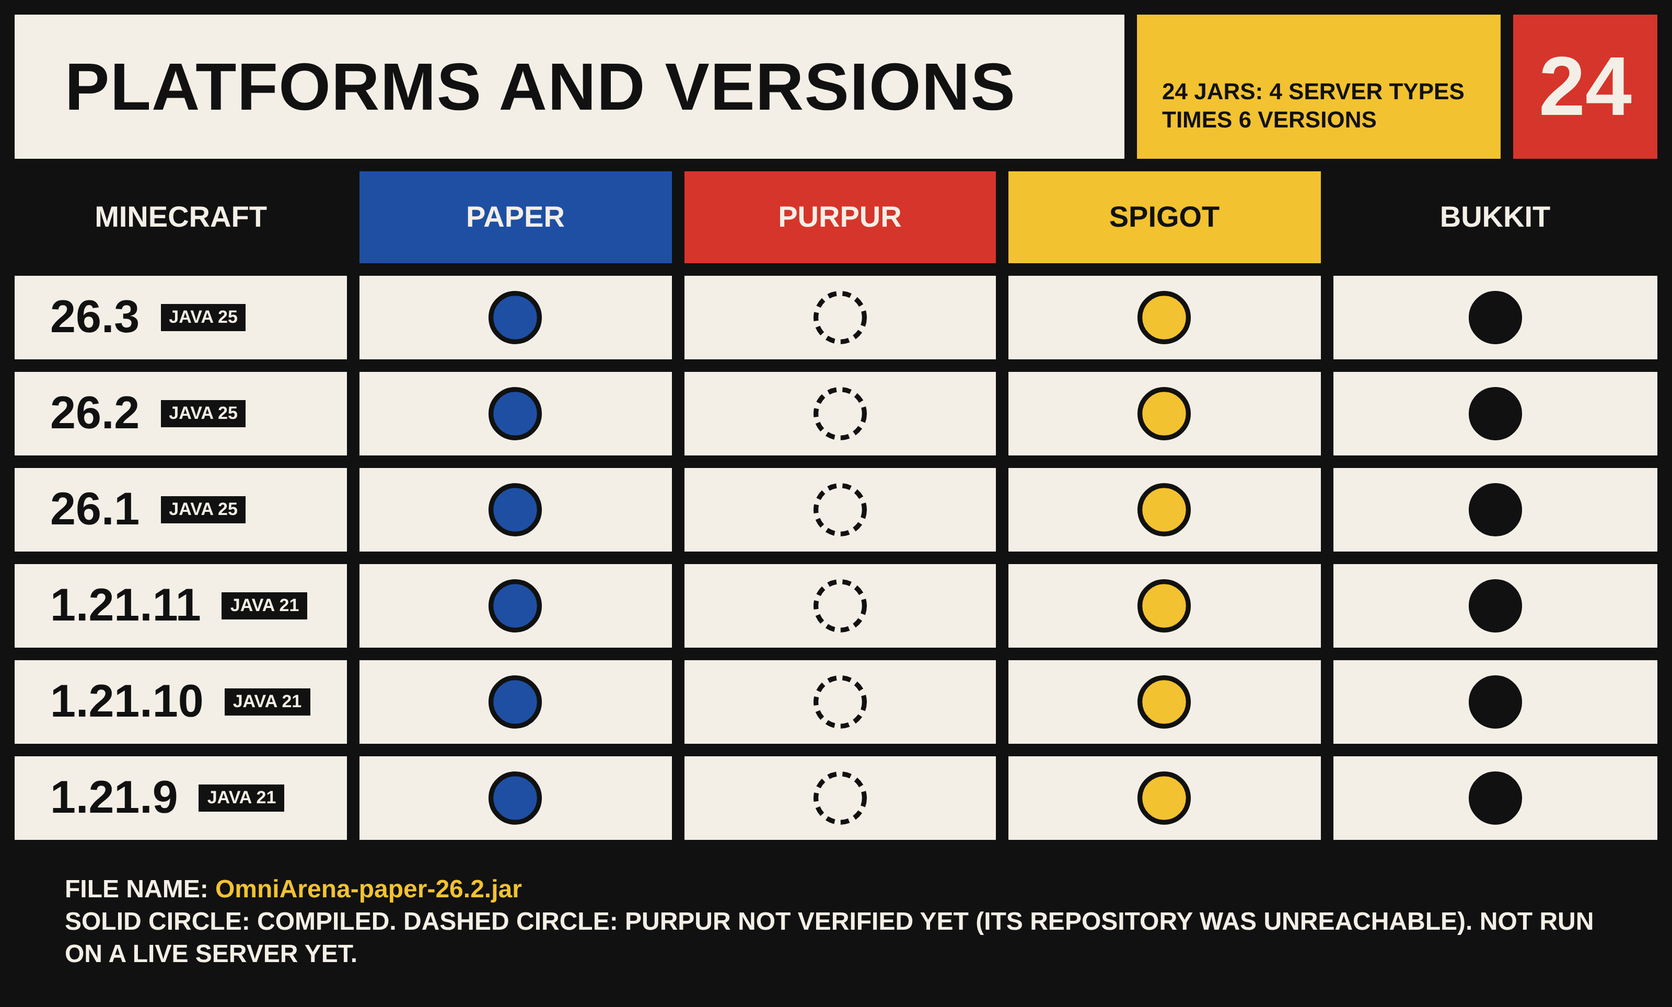
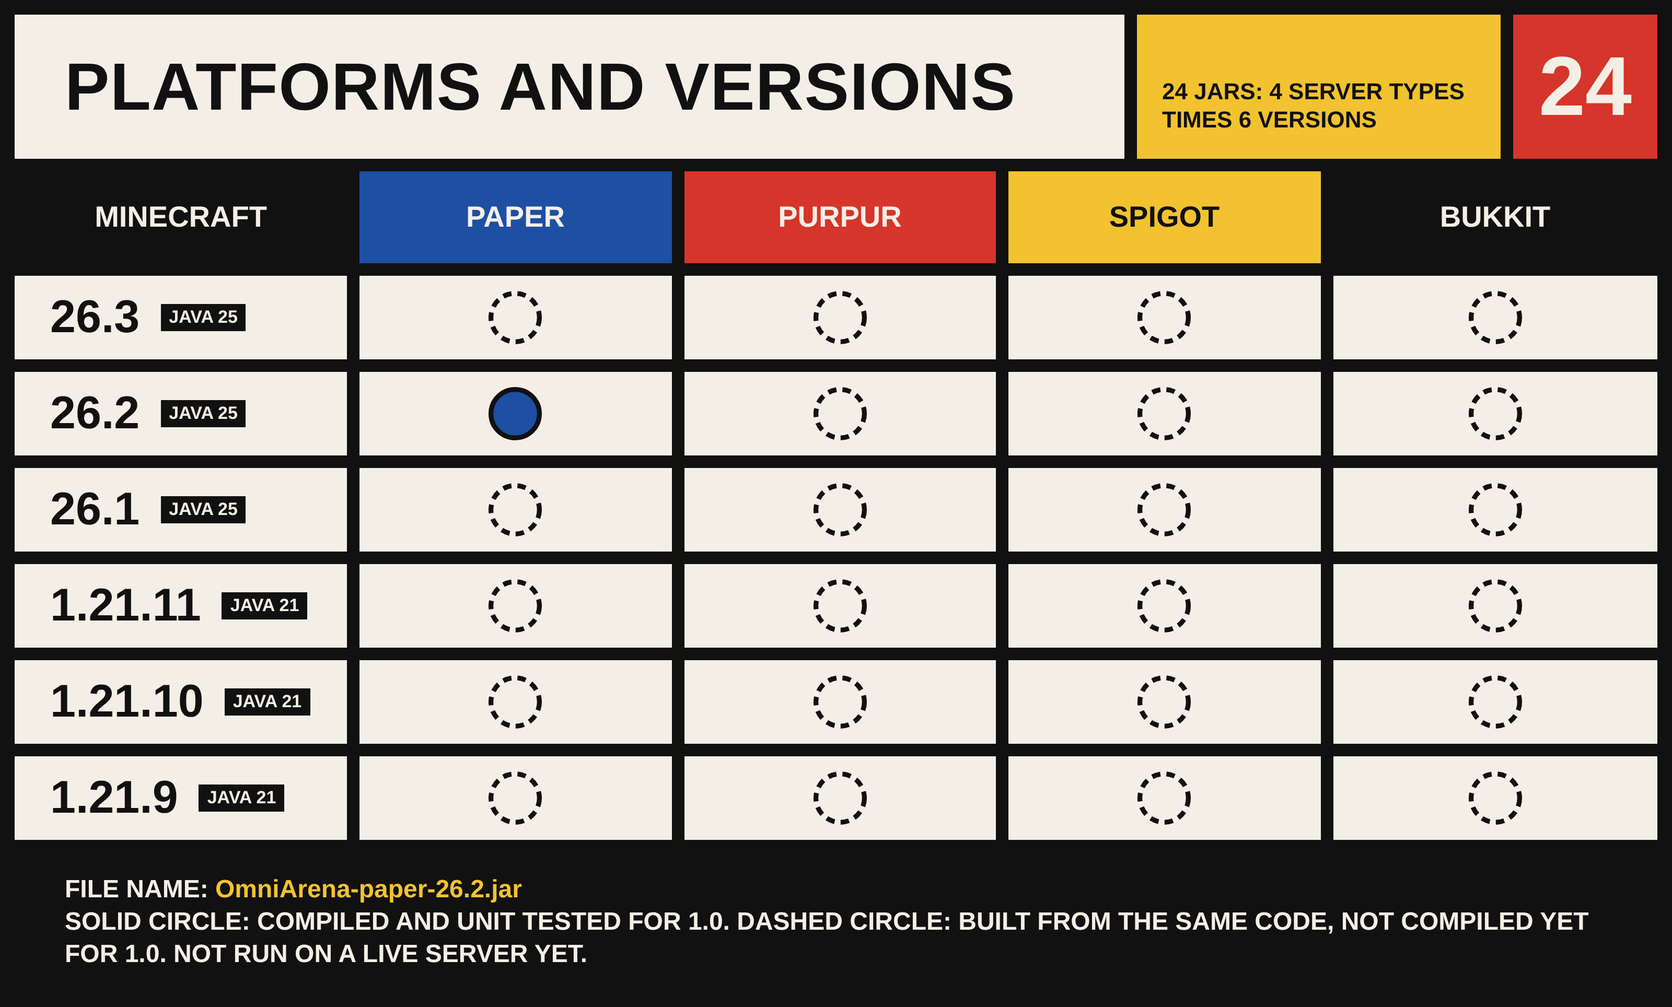
Docs: correct build status (only paper/26.2 compiled for 1.0)
Claude-Session: https://claude.ai/code/session_01HHny4fxykC5DGDai4dCPB2

diff --git a/docs/modrinth/graphics-src/09-matrix.html b/docs/modrinth/graphics-src/09-matrix.html
@@ -3,4 +3,4 @@
 .c{height:92px;border-right:12px solid #111;border-bottom:12px solid #111;display:flex;align-items:center;justify-content:center;font-size:28px;text-transform:uppercase;text-align:center;line-height:1.1}
 .c:nth-child(5n){border-right:0}.c.h{height:100px}
 .c.v{justify-content:flex-start;gap:20px;font-size:44px;padding-left:34px}.c.v small{white-space:nowrap;font-size:17px;background:#111;color:#F4EFE6;padding:4px 8px}
-</style></head><body><div class="frame"><div class="head"><div class="t">Platforms and versions</div><div class="s">24 jars: 4 server types times 6 versions</div><div class="n" style="background:#D6352B">24</div></div><div class="m"><div class="c h" style="background:#111;color:#F4EFE6">Minecraft</div><div class="c h" style="background:#1E4FA3;color:#F4EFE6">Paper</div><div class="c h" style="background:#D6352B;color:#F4EFE6">Purpur</div><div class="c h" style="background:#F2C230;color:#111111">Spigot</div><div class="c h" style="background:#111111;color:#F4EFE6">Bukkit</div><div class="c v"><span>26.3</span><small>Java 25</small></div><div class="c"><svg viewBox="0 0 100 100" width="58" height="58"><circle cx="50" cy="50" r="40" fill="#1E4FA3" stroke="#111111" stroke-width="8" /></svg></div><div class="c"><svg viewBox="0 0 100 100" width="58" height="58"><circle cx="50" cy="50" r="40" fill="none" stroke="#111111" stroke-width="8" stroke-dasharray="14 10"/></svg></div><div class="c"><svg viewBox="0 0 100 100" width="58" height="58"><circle cx="50" cy="50" r="40" fill="#F2C230" stroke="#111111" stroke-width="8" /></svg></div><div class="c"><svg viewBox="0 0 100 100" width="58" height="58"><circle cx="50" cy="50" r="40" fill="#111111" stroke="#111111" stroke-width="8" /></svg></div><div class="c v"><span>26.2</span><small>Java 25</small></div><div class="c"><svg viewBox="0 0 100 100" width="58" height="58"><circle cx="50" cy="50" r="40" fill="#1E4FA3" stroke="#111111" stroke-width="8" /></svg></div><div class="c"><svg viewBox="0 0 100 100" width="58" height="58"><circle cx="50" cy="50" r="40" fill="none" stroke="#111111" stroke-width="8" stroke-dasharray="14 10"/></svg></div><div class="c"><svg viewBox="0 0 100 100" width="58" height="58"><circle cx="50" cy="50" r="40" fill="#F2C230" stroke="#111111" stroke-width="8" /></svg></div><div class="c"><svg viewBox="0 0 100 100" width="58" height="58"><circle cx="50" cy="50" r="40" fill="#111111" stroke="#111111" stroke-width="8" /></svg></div><div class="c v"><span>26.1</span><small>Java 25</small></div><div class="c"><svg viewBox="0 0 100 100" width="58" height="58"><circle cx="50" cy="50" r="40" fill="#1E4FA3" stroke="#111111" stroke-width="8" /></svg></div><div class="c"><svg viewBox="0 0 100 100" width="58" height="58"><circle cx="50" cy="50" r="40" fill="none" stroke="#111111" stroke-width="8" stroke-dasharray="14 10"/></svg></div><div class="c"><svg viewBox="0 0 100 100" width="58" height="58"><circle cx="50" cy="50" r="40" fill="#F2C230" stroke="#111111" stroke-width="8" /></svg></div><div class="c"><svg viewBox="0 0 100 100" width="58" height="58"><circle cx="50" cy="50" r="40" fill="#111111" stroke="#111111" stroke-width="8" /></svg></div><div class="c v"><span>1.21.11</span><small>Java 21</small></div><div class="c"><svg viewBox="0 0 100 100" width="58" height="58"><circle cx="50" cy="50" r="40" fill="#1E4FA3" stroke="#111111" stroke-width="8" /></svg></div><div class="c"><svg viewBox="0 0 100 100" width="58" height="58"><circle cx="50" cy="50" r="40" fill="none" stroke="#111111" stroke-width="8" stroke-dasharray="14 10"/></svg></div><div class="c"><svg viewBox="0 0 100 100" width="58" height="58"><circle cx="50" cy="50" r="40" fill="#F2C230" stroke="#111111" stroke-width="8" /></svg></div><div class="c"><svg viewBox="0 0 100 100" width="58" height="58"><circle cx="50" cy="50" r="40" fill="#111111" stroke="#111111" stroke-width="8" /></svg></div><div class="c v"><span>1.21.10</span><small>Java 21</small></div><div class="c"><svg viewBox="0 0 100 100" width="58" height="58"><circle cx="50" cy="50" r="40" fill="#1E4FA3" stroke="#111111" stroke-width="8" /></svg></div><div class="c"><svg viewBox="0 0 100 100" width="58" height="58"><circle cx="50" cy="50" r="40" fill="none" stroke="#111111" stroke-width="8" stroke-dasharray="14 10"/></svg></div><div class="c"><svg viewBox="0 0 100 100" width="58" height="58"><circle cx="50" cy="50" r="40" fill="#F2C230" stroke="#111111" stroke-width="8" /></svg></div><div class="c"><svg viewBox="0 0 100 100" width="58" height="58"><circle cx="50" cy="50" r="40" fill="#111111" stroke="#111111" stroke-width="8" /></svg></div><div class="c v"><span>1.21.9</span><small>Java 21</small></div><div class="c"><svg viewBox="0 0 100 100" width="58" height="58"><circle cx="50" cy="50" r="40" fill="#1E4FA3" stroke="#111111" stroke-width="8" /></svg></div><div class="c"><svg viewBox="0 0 100 100" width="58" height="58"><circle cx="50" cy="50" r="40" fill="none" stroke="#111111" stroke-width="8" stroke-dasharray="14 10"/></svg></div><div class="c"><svg viewBox="0 0 100 100" width="58" height="58"><circle cx="50" cy="50" r="40" fill="#F2C230" stroke="#111111" stroke-width="8" /></svg></div><div class="c"><svg viewBox="0 0 100 100" width="58" height="58"><circle cx="50" cy="50" r="40" fill="#111111" stroke="#111111" stroke-width="8" /></svg></div></div><div class="note" style="border-top:0">File name: <span style="color:#F2C230;text-transform:none">OmniArena-paper-26.2.jar</span><br>Solid circle: compiled. Dashed circle: Purpur not verified yet (its repository was unreachable). Not run on a live server yet.</div></div></body></html>
+</style></head><body><div class="frame"><div class="head"><div class="t">Platforms and versions</div><div class="s">24 jars: 4 server types times 6 versions</div><div class="n" style="background:#D6352B">24</div></div><div class="m"><div class="c h" style="background:#111;color:#F4EFE6">Minecraft</div><div class="c h" style="background:#1E4FA3;color:#F4EFE6">Paper</div><div class="c h" style="background:#D6352B;color:#F4EFE6">Purpur</div><div class="c h" style="background:#F2C230;color:#111111">Spigot</div><div class="c h" style="background:#111111;color:#F4EFE6">Bukkit</div><div class="c v"><span>26.3</span><small>Java 25</small></div><div class="c"><svg viewBox="0 0 100 100" width="58" height="58"><circle cx="50" cy="50" r="40" fill="none" stroke="#111111" stroke-width="8" stroke-dasharray="14 10"/></svg></div><div class="c"><svg viewBox="0 0 100 100" width="58" height="58"><circle cx="50" cy="50" r="40" fill="none" stroke="#111111" stroke-width="8" stroke-dasharray="14 10"/></svg></div><div class="c"><svg viewBox="0 0 100 100" width="58" height="58"><circle cx="50" cy="50" r="40" fill="none" stroke="#111111" stroke-width="8" stroke-dasharray="14 10"/></svg></div><div class="c"><svg viewBox="0 0 100 100" width="58" height="58"><circle cx="50" cy="50" r="40" fill="none" stroke="#111111" stroke-width="8" stroke-dasharray="14 10"/></svg></div><div class="c v"><span>26.2</span><small>Java 25</small></div><div class="c"><svg viewBox="0 0 100 100" width="58" height="58"><circle cx="50" cy="50" r="40" fill="#1E4FA3" stroke="#111111" stroke-width="8" /></svg></div><div class="c"><svg viewBox="0 0 100 100" width="58" height="58"><circle cx="50" cy="50" r="40" fill="none" stroke="#111111" stroke-width="8" stroke-dasharray="14 10"/></svg></div><div class="c"><svg viewBox="0 0 100 100" width="58" height="58"><circle cx="50" cy="50" r="40" fill="none" stroke="#111111" stroke-width="8" stroke-dasharray="14 10"/></svg></div><div class="c"><svg viewBox="0 0 100 100" width="58" height="58"><circle cx="50" cy="50" r="40" fill="none" stroke="#111111" stroke-width="8" stroke-dasharray="14 10"/></svg></div><div class="c v"><span>26.1</span><small>Java 25</small></div><div class="c"><svg viewBox="0 0 100 100" width="58" height="58"><circle cx="50" cy="50" r="40" fill="none" stroke="#111111" stroke-width="8" stroke-dasharray="14 10"/></svg></div><div class="c"><svg viewBox="0 0 100 100" width="58" height="58"><circle cx="50" cy="50" r="40" fill="none" stroke="#111111" stroke-width="8" stroke-dasharray="14 10"/></svg></div><div class="c"><svg viewBox="0 0 100 100" width="58" height="58"><circle cx="50" cy="50" r="40" fill="none" stroke="#111111" stroke-width="8" stroke-dasharray="14 10"/></svg></div><div class="c"><svg viewBox="0 0 100 100" width="58" height="58"><circle cx="50" cy="50" r="40" fill="none" stroke="#111111" stroke-width="8" stroke-dasharray="14 10"/></svg></div><div class="c v"><span>1.21.11</span><small>Java 21</small></div><div class="c"><svg viewBox="0 0 100 100" width="58" height="58"><circle cx="50" cy="50" r="40" fill="none" stroke="#111111" stroke-width="8" stroke-dasharray="14 10"/></svg></div><div class="c"><svg viewBox="0 0 100 100" width="58" height="58"><circle cx="50" cy="50" r="40" fill="none" stroke="#111111" stroke-width="8" stroke-dasharray="14 10"/></svg></div><div class="c"><svg viewBox="0 0 100 100" width="58" height="58"><circle cx="50" cy="50" r="40" fill="none" stroke="#111111" stroke-width="8" stroke-dasharray="14 10"/></svg></div><div class="c"><svg viewBox="0 0 100 100" width="58" height="58"><circle cx="50" cy="50" r="40" fill="none" stroke="#111111" stroke-width="8" stroke-dasharray="14 10"/></svg></div><div class="c v"><span>1.21.10</span><small>Java 21</small></div><div class="c"><svg viewBox="0 0 100 100" width="58" height="58"><circle cx="50" cy="50" r="40" fill="none" stroke="#111111" stroke-width="8" stroke-dasharray="14 10"/></svg></div><div class="c"><svg viewBox="0 0 100 100" width="58" height="58"><circle cx="50" cy="50" r="40" fill="none" stroke="#111111" stroke-width="8" stroke-dasharray="14 10"/></svg></div><div class="c"><svg viewBox="0 0 100 100" width="58" height="58"><circle cx="50" cy="50" r="40" fill="none" stroke="#111111" stroke-width="8" stroke-dasharray="14 10"/></svg></div><div class="c"><svg viewBox="0 0 100 100" width="58" height="58"><circle cx="50" cy="50" r="40" fill="none" stroke="#111111" stroke-width="8" stroke-dasharray="14 10"/></svg></div><div class="c v"><span>1.21.9</span><small>Java 21</small></div><div class="c"><svg viewBox="0 0 100 100" width="58" height="58"><circle cx="50" cy="50" r="40" fill="none" stroke="#111111" stroke-width="8" stroke-dasharray="14 10"/></svg></div><div class="c"><svg viewBox="0 0 100 100" width="58" height="58"><circle cx="50" cy="50" r="40" fill="none" stroke="#111111" stroke-width="8" stroke-dasharray="14 10"/></svg></div><div class="c"><svg viewBox="0 0 100 100" width="58" height="58"><circle cx="50" cy="50" r="40" fill="none" stroke="#111111" stroke-width="8" stroke-dasharray="14 10"/></svg></div><div class="c"><svg viewBox="0 0 100 100" width="58" height="58"><circle cx="50" cy="50" r="40" fill="none" stroke="#111111" stroke-width="8" stroke-dasharray="14 10"/></svg></div></div><div class="note" style="border-top:0">File name: <span style="color:#F2C230;text-transform:none">OmniArena-paper-26.2.jar</span><br>Solid circle: compiled and unit tested for 1.0. Dashed circle: built from the same code, not compiled yet for 1.0. Not run on a live server yet.</div></div></body></html>

diff --git a/docs/modrinth/DESCRIPTION-preview.html b/docs/modrinth/DESCRIPTION-preview.html
@@ -9,7 +9,7 @@ blockquote{border-left:6px solid #D6352B;margin:12px 0;padding:2px 14px;backgrou
 a{color:#7fb0ff}</style></head><body><div class="page"><p><img alt="OmniArena: PvP arenas, zero hassle. Ranked, tournaments, 4 server types." src="images/01-hero.png" /></p>
 <p><strong>OmniArena is a PvP arena plugin that sets up in five minutes and looks after itself.</strong> Players join from a menu, a command or a sign and fight in 16 game types. Admins build an arena with a short wizard, and the plugin rebuilds it after every match.</p>
 <blockquote>
-<p><strong>Please read the honest status first.</strong> Version 1.0.0 has passing unit tests (they cover pure logic only), and the Paper, Spigot and Bukkit jars compile for all six Minecraft versions. The six Purpur jars could not be verified, because the Purpur repository was unreachable when they were built. <strong>Nobody has run OmniArena on a live server yet.</strong> The links to DecentHolograms, FancyHolograms, Citizens and Multiverse use reflection and are untested against the real plugins. Please try it on a copy of your server first. Details: <a href="#honest-status">Honest status</a>.</p>
+<p><strong>Please read the honest status first.</strong> Version 1.0.0 has passing unit tests (they cover pure logic only), but only the <strong>Paper 26.2</strong> jar has been compiled for 1.0; the other 23 jars (Purpur, Spigot, Bukkit and the other Minecraft versions) use the same code but have not been compiled yet. <strong>Nobody has run OmniArena on a live server yet.</strong> The links to DecentHolograms, FancyHolograms, Citizens and Multiverse use reflection and are untested against the real plugins. Please try it on a copy of your server first. Details: <a href="#honest-status">Honest status</a>.</p>
 </blockquote>
 <p><img alt="" src="images/10-divider.png" /></p>
 <h1 id="summary">Summary</h1>
@@ -383,7 +383,7 @@ a{color:#7fb0ff}</style></head><body><div class="page"><p><img alt="OmniArena: P
 <h2 id="honest-status">Honest status</h2>
 <ul>
 <li><strong>Unit tests pass.</strong> They test pure logic only (brackets, config migration, menus layout, guide pages and more).</li>
-<li><strong>Compiled:</strong> the Paper, Spigot and Bukkit jars for all six versions.</li>
+<li><strong>Compiled:</strong> only the Paper 26.2 jar so far. The other 23 jars are not compiled yet for 1.0.</li>
 <li><strong>Not verified:</strong> the six Purpur jars (repository unreachable at the time).</li>
 <li><strong>Never run on a live server.</strong> There are no automated tests against a real server.</li>
 <li><strong>Untested hooks:</strong> DecentHolograms, FancyHolograms, Citizens and Multiverse (reflection only).</li>

diff --git a/docs/modrinth/graphics-src/gen.py b/docs/modrinth/graphics-src/gen.py
@@ -211,14 +211,14 @@ cir = lambda ok, col: (f'<svg viewBox="0 0 100 100" width="58" height="58"><circ
 mh = '<div class="c h" style="background:#111;color:#F4EFE6">Minecraft</div>' + "".join(f'<div class="c h" style="background:{b};color:{f}">{n}</div>' for n, b, f, _ in plats)
 mr = ""
 for v, j in vers:
-    mr += f'<div class="c v"><span>{v}</span><small>Java {j}</small></div>' + "".join(f'<div class="c">{cir(ok, b if b != K else K)}</div>' for n, b, f, ok in plats)
+    mr += f'<div class="c v"><span>{v}</span><small>Java {j}</small></div>' + "".join(f'<div class="c">{cir(n == "Paper" and v == "26.2", b)}</div>' for n, b, f, ok in plats)
 page("09-matrix.html", """
 .m{display:grid;grid-template-columns:330px repeat(4,1fr)}
 .c{height:92px;border-right:12px solid #111;border-bottom:12px solid #111;display:flex;align-items:center;justify-content:center;font-size:28px;text-transform:uppercase;text-align:center;line-height:1.1}
 .c:nth-child(5n){border-right:0}.c.h{height:100px}
 .c.v{justify-content:flex-start;gap:20px;font-size:44px;padding-left:34px}.c.v small{white-space:nowrap;font-size:17px;background:#111;color:#F4EFE6;padding:4px 8px}
 """, head("Platforms and versions", "24 jars: 4 server types times 6 versions", "24", R) + f'<div class="m">{mh}{mr}</div>'
- + f'<div class="note" style="border-top:0">File name: <span style="color:#F2C230;text-transform:none">OmniArena-paper-26.2.jar</span><br>Solid circle: compiled. Dashed circle: Purpur not verified yet (its repository was unreachable). Not run on a live server yet.</div>')
+ + f'<div class="note" style="border-top:0">File name: <span style="color:#F2C230;text-transform:none">OmniArena-paper-26.2.jar</span><br>Solid circle: compiled and unit tested for 1.0. Dashed circle: built from the same code, not compiled yet for 1.0. Not run on a live server yet.</div>')
 
 # ---------- 10 divider ----------
 page("10-divider.html", """

diff --git a/docs/modrinth/DESCRIPTION.md b/docs/modrinth/DESCRIPTION.md
@@ -2,7 +2,7 @@
 
 **OmniArena is a PvP arena plugin that sets up in five minutes and looks after itself.** Players join from a menu, a command or a sign and fight in 16 game types. Admins build an arena with a short wizard, and the plugin rebuilds it after every match.
 
-> **Please read the honest status first.** Version 1.0.0 has passing unit tests (they cover pure logic only), and the Paper, Spigot and Bukkit jars compile for all six Minecraft versions. The six Purpur jars could not be verified, because the Purpur repository was unreachable when they were built. **Nobody has run OmniArena on a live server yet.** The links to DecentHolograms, FancyHolograms, Citizens and Multiverse use reflection and are untested against the real plugins. Please try it on a copy of your server first. Details: [Honest status](#honest-status).
+> **Please read the honest status first.** Version 1.0.0 has passing unit tests (they cover pure logic only), but only the **Paper 26.2** jar has been compiled for 1.0; the other 23 jars (Purpur, Spigot, Bukkit and the other Minecraft versions) use the same code but have not been compiled yet. **Nobody has run OmniArena on a live server yet.** The links to DecentHolograms, FancyHolograms, Citizens and Multiverse use reflection and are untested against the real plugins. Please try it on a copy of your server first. Details: [Honest status](#honest-status).
 
 ![](https://raw.githubusercontent.com/JasonPieterK/OmniArena/main/docs/modrinth/images/10-divider.png)
 
@@ -230,7 +230,7 @@ Versions: **26.3, 26.2, 26.1** (Java 25) and **1.21.11, 1.21.10, 1.21.9** (Java 
 ## Honest status
 
 - **Unit tests pass.** They test pure logic only (brackets, config migration, menus layout, guide pages and more).
-- **Compiled:** the Paper, Spigot and Bukkit jars for all six versions.
+- **Compiled:** only the Paper 26.2 jar so far. The other 23 jars are not compiled yet for 1.0.
 - **Not verified:** the six Purpur jars (repository unreachable at the time).
 - **Never run on a live server.** There are no automated tests against a real server.
 - **Untested hooks:** DecentHolograms, FancyHolograms, Citizens and Multiverse (reflection only).

diff --git a/README.md b/README.md
@@ -9,7 +9,7 @@
 Players join arenas from a menu, a command or a sign and fight in *16 game types*. Admins build an arena with a short
 wizard; the plugin rebuilds it after every match and repairs itself when something goes wrong.
 
-> **Honest status.** Version 1.0.0. The unit tests pass (pure logic only) and the Paper, Spigot and Bukkit jars compile.
+> **Honest status.** Version 1.0.0. The unit tests pass (pure logic only); only the Paper 26.2 jar has been compiled for 1.0, the other 23 are not compiled yet.
 > The six Purpur jars could not be verified (their repository was unreachable). ***It has never been run on a live
 > server.*** The DecentHolograms, FancyHolograms, Citizens and Multiverse hooks are reflection-only and untested.
 > Try it on a copy of your server first. Details: [Status](#status).
@@ -135,8 +135,8 @@ JAVA25_HOME=/path/to/jdk25 JAVA21_HOME=/path/to/jdk21 scripts/build-all.sh   # a
 ```
 
 Profiles: `paper`, `purpur`, `spigot`, `bukkit` x `mc-26.3`, `mc-26.2`, `mc-26.1`, `mc-1.21.11`, `mc-1.21.10`, `mc-1.21.9`.
-Compilation is verified for the paper, spigot and bukkit jars; the six Purpur jars could not be verified (their repository was
-unreachable), and there are no automated tests against a live server. Details: [DOCS.md](DOCS.md#12-building).
+Only the paper/26.2 jar has been compiled for 1.0; the other 23 use the same code but are not compiled yet,
+and there are no automated tests against a live server. Details: [DOCS.md](DOCS.md#12-building).
 
 ## Troubleshooting
 

diff --git a/AGENTS.md b/AGENTS.md
@@ -24,8 +24,8 @@ scripts/build-all.sh                    # all 24 jars into dist/ (JAVA25_HOME, J
   `PlatformImpl` per jar is in `src/paper/java` (paper, purpur) or `src/spigot/java` (spigot, bukkit,
   with shaded + relocated Adventure and `adventure-platform-bukkit`). Never call Paper-only API from
   common code: add a method to `PlatformAdapter` and implement it in both `PlatformImpl` classes
-  (e.g. `openBook` for the guide books). Code stays at Java 21 level. Compilation is verified for all 18
-  paper/spigot/bukkit combinations; Purpur (`purpur-api`) could not be verified because repo.purpurmc.org was unreachable.
+  (e.g. `openBook` for the guide books). Code stays at Java 21 level. Only the paper/mc-26.2 jar was compiled (and unit tested) after the 1.0 QoL rework; the other 23 profiles
+  (spigot/bukkit/purpur and the other versions) were not compiled since; Purpur's repo was also unreachable earlier.
 - `target/` and `dist/` are git-ignored.
 - Tests: 79 `@Test` methods (`grep -r "@Test" src/test | wc -l`): regen enum, bracket logic, config schema and
   migration, YAML repair and backups, error tracking, integration helpers, menu layout, did-you-mean, guide paginator and

diff --git a/CLAUDE.md b/CLAUDE.md
@@ -30,9 +30,8 @@ scripts/build-all.sh                 # whole 24-jar matrix into dist/ (JAVA25_HO
 - `target/` and `dist/` are git-ignored build output; never edit them.
 - Repositories needed: PaperMC, Spigot snapshots, PurpurMC, EssentialsX, PlaceholderAPI, EngineHub,
   Sonatype, JitPack, Vault. Outbound network may be restricted in sandboxes; builds may need a
-  pre-populated `~/.m2` (`mvn -o`). Verification status: compilation was verified for all 18 paper, spigot and
-  bukkit combinations (and the unit tests on paper/mc-26.2); the 6 purpur jars could not be
-  verified because repo.purpurmc.org was unreachable. No live-server runtime tests exist.
+  pre-populated `~/.m2` (`mvn -o`). Verification status: Only the paper/mc-26.2 jar was compiled (and unit tested) after the 1.0 QoL rework; the other 23 profiles were not compiled since
+  (spigot-api is not in the offline `~/.m2`; Purpur's repo was unreachable earlier). No live-server runtime tests exist.
 
 ### The 24-jar matrix
 

diff --git a/DOCS.md b/DOCS.md
@@ -1036,6 +1036,6 @@ the spigot or bukkit jar there. Unit tests (`mvn -q -Ppaper,mc-26.2 test`) cover
   block while tagged exists only on paper and purpur.
 - **LuckPerms** has a hook object but no shipped feature uses it.
 - **Guide books** need a client that can open written books; very long edited topics are capped at 100 pages.
-- **Builds.** All paper, spigot and bukkit jars compile; the six Purpur jars could not be verified because the Purpur
-  repository was unreachable. There are no automated tests against a live server.
+- **Builds.** Only the paper/26.2 jar has been compiled for 1.0; the other 23 jars (Purpur, Spigot, Bukkit and the
+  other Minecraft versions) use the same code but are not compiled yet. There are no automated tests against a live server.
 - **Web UI icons** load from a CDN without an integrity hash; if it is unreachable the buttons keep their text labels.

diff --git a/src/main/resources/web/docs.md b/src/main/resources/web/docs.md
@@ -1036,6 +1036,6 @@ the spigot or bukkit jar there. Unit tests (`mvn -q -Ppaper,mc-26.2 test`) cover
   block while tagged exists only on paper and purpur.
 - **LuckPerms** has a hook object but no shipped feature uses it.
 - **Guide books** need a client that can open written books; very long edited topics are capped at 100 pages.
-- **Builds.** All paper, spigot and bukkit jars compile; the six Purpur jars could not be verified because the Purpur
-  repository was unreachable. There are no automated tests against a live server.
+- **Builds.** Only the paper/26.2 jar has been compiled for 1.0; the other 23 jars (Purpur, Spigot, Bukkit and the
+  other Minecraft versions) use the same code but are not compiled yet. There are no automated tests against a live server.
 - **Web UI icons** load from a CDN without an integrity hash; if it is unreachable the buttons keep their text labels.
